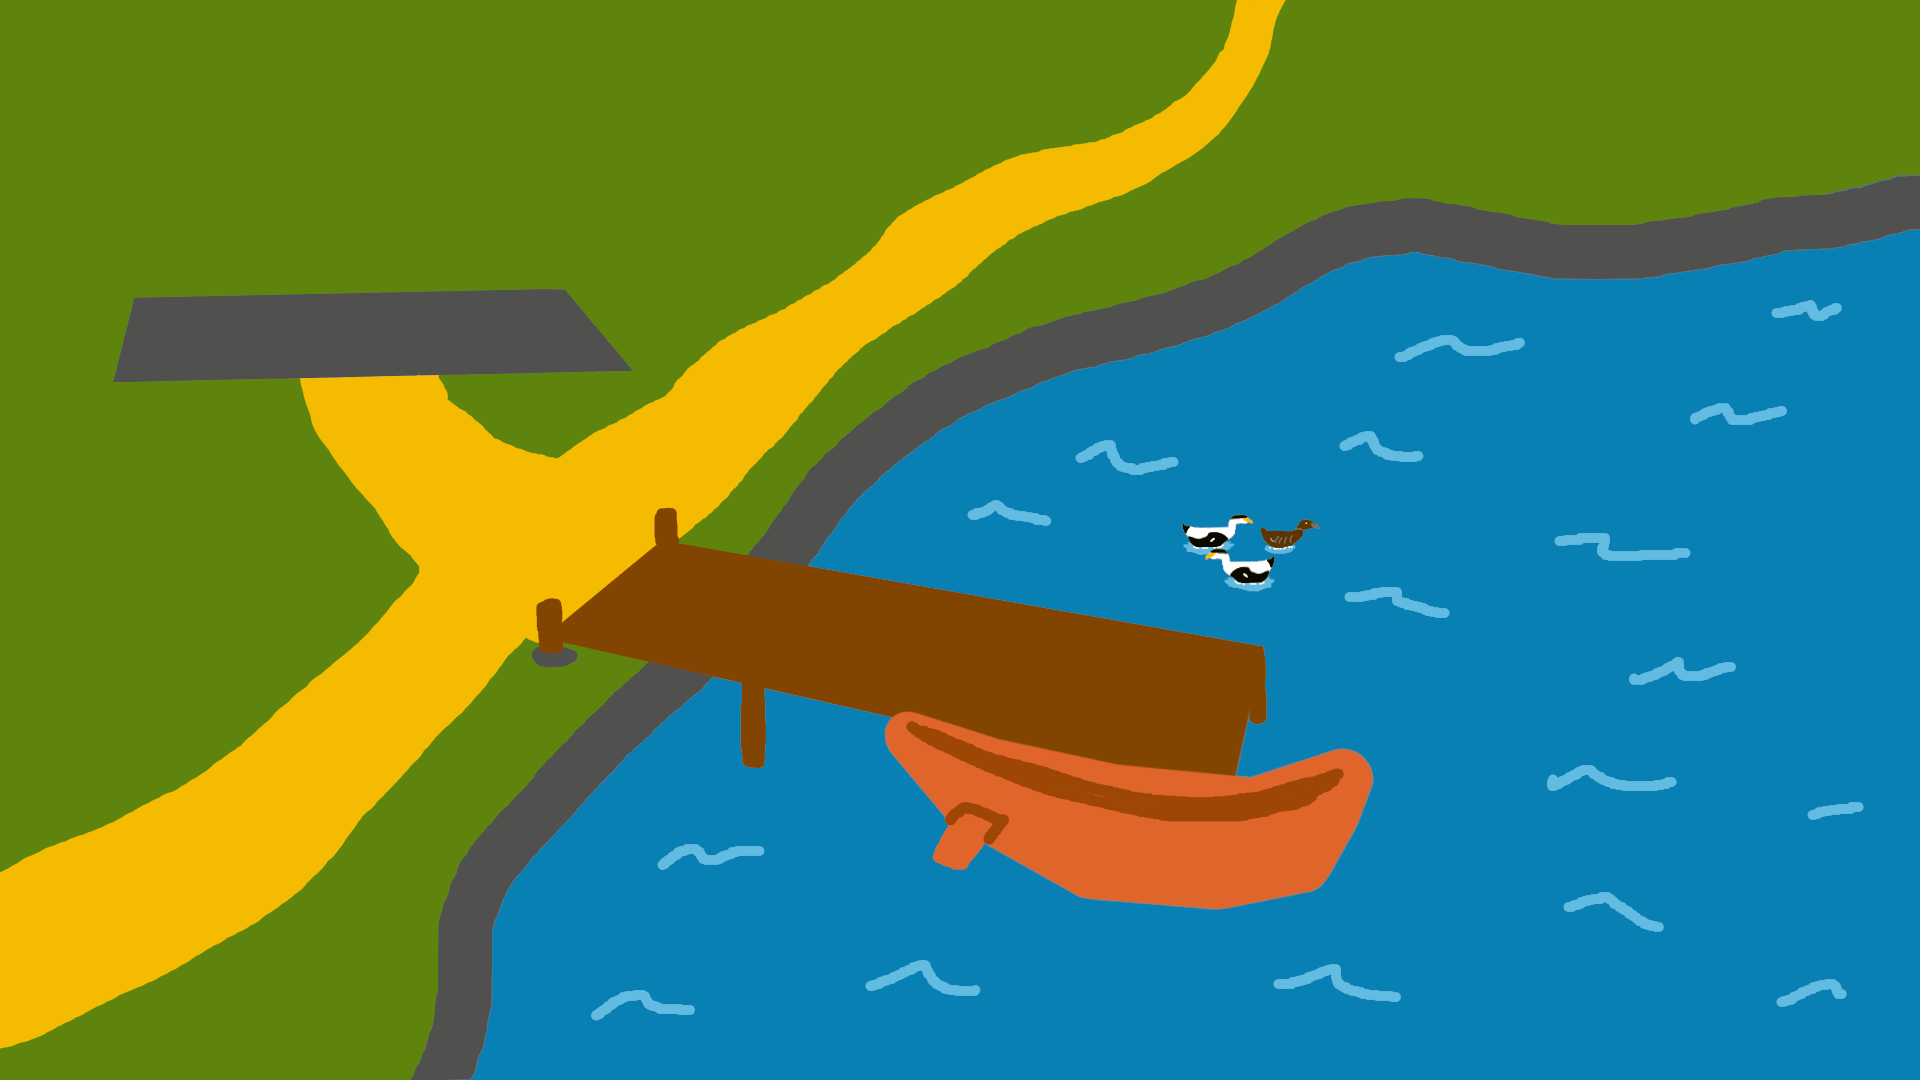
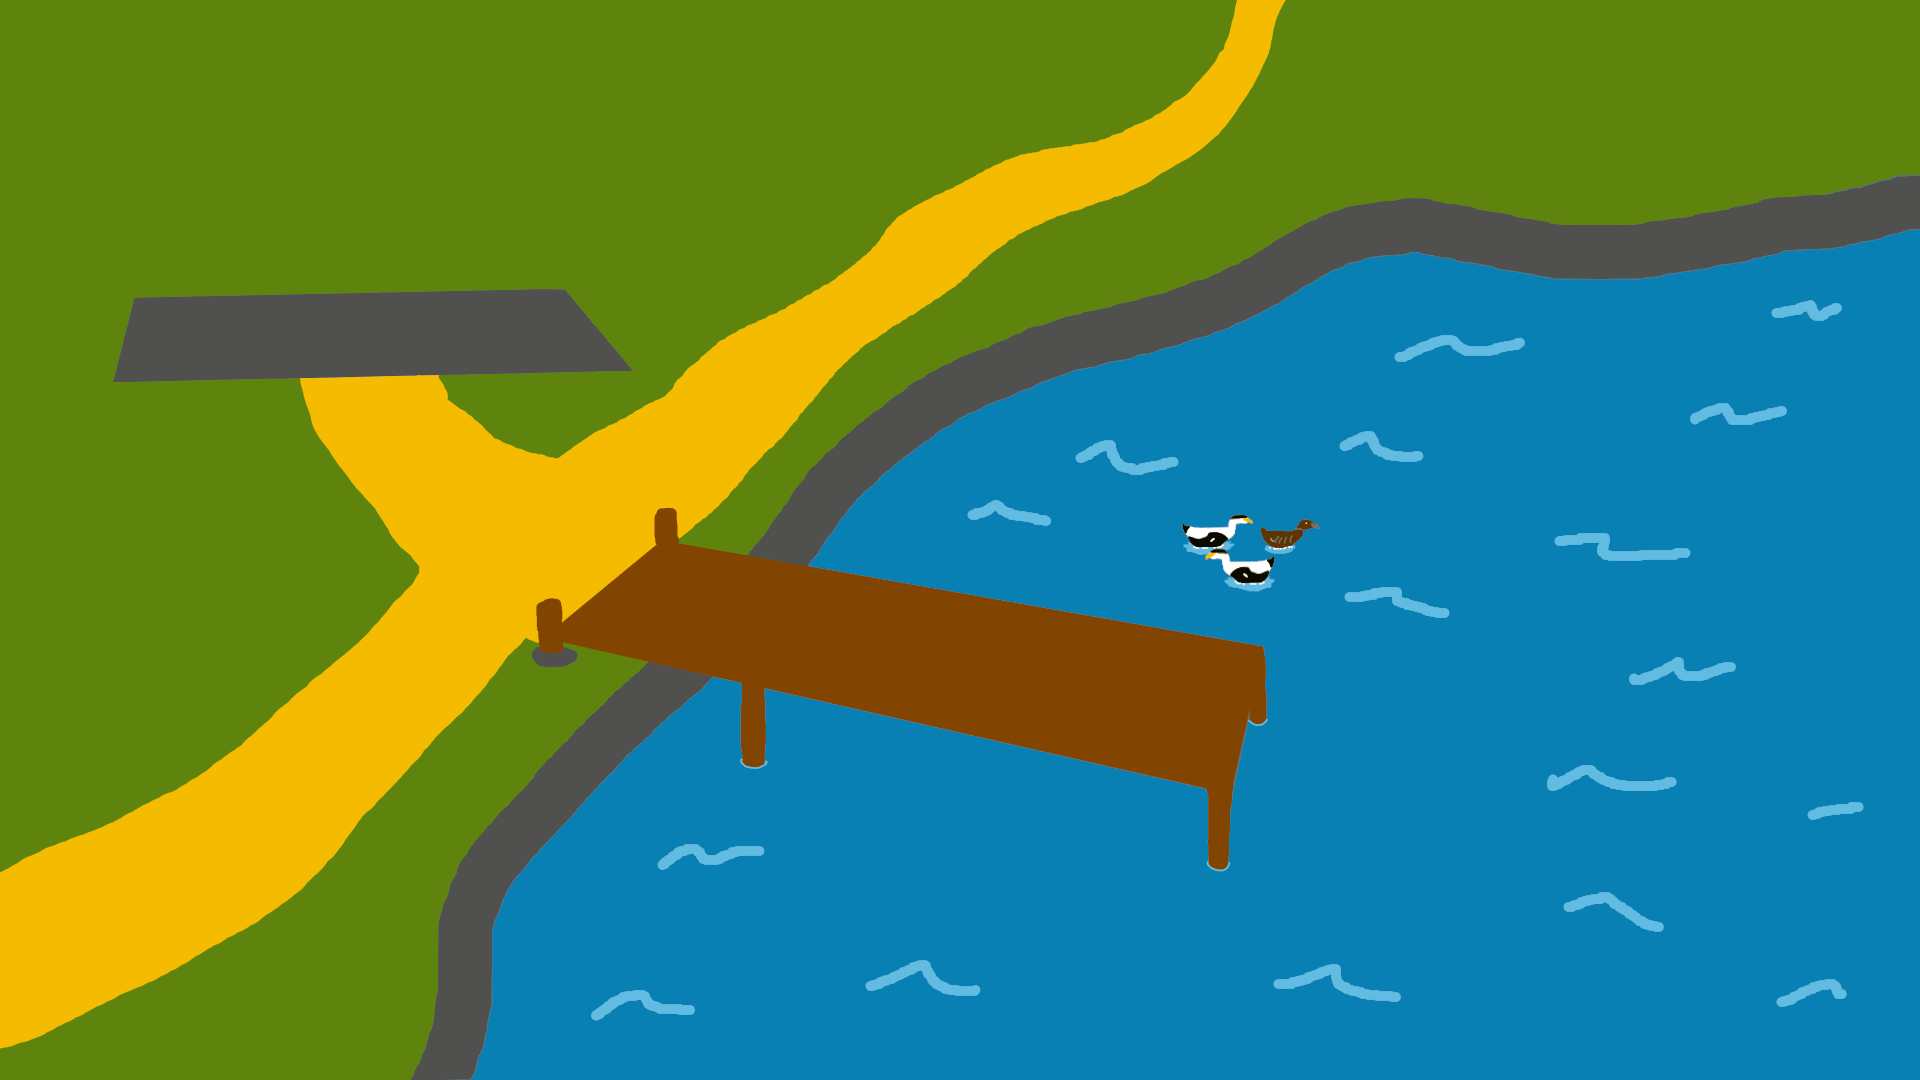
Assets

Changed region(s): [[0.4375, 0.6417, 0.7188, 0.8556]]

diff --git a/src/assets/assets.ts b/src/assets/assets.ts
@@ -1,53 +1,61 @@
-import { Image, SpriteSheet, Audio, tilemap, Tilemap } from "./util";
-import { image, sound, music, loadFont, spritesheet } from "./util";
+import { Image, SpriteSheet, Audio, tilemap, Tilemap } from './util';
+import { image, sound, music, loadFont, spritesheet } from './util';
 
 /* Images */
 const images: Image[] = [
-	// Backgrounds
-	image("backgrounds/background", "background"),
+  // Backgrounds
+  image('backgrounds/background', 'background'),
 
-	// Characters
-	// image("characters/player", "player"),
+  // Characters
+  // image("characters/player", "player"),
 
+  // Dockscene
+  image('backgrounds/dock_background', 'dock_background'),
+  image('shop/overworld_shop', 'overworld_shop'),
+  image('characters/hero-kobold', 'kobold'),
+  image('dock_boat', 'dock_boat'),
 
-	// Dockscene
-	image('backgrounds/dock_background', 'dock_background'),
-	image('shop/overworld_shop', 'overworld_shop'),
+  // Placeholder
+  image('characters/boat', 'boat'),
+  image('characters/boat_outside', 'boat_outside'),
+  image('characters/kobold', 'creature'),
 
-	// Items
-	image("items/coin", "coin"),
+  // Items
+  image('items/coin', 'coin'),
 
-	// UI
-	image("ui/hud", "hud"),
+  // UI
+  image('ui/hud', 'hud'),
 
-	// Titlescreen
-	image("titlescreen/sky", "title_sky"),
-	image("titlescreen/background", "title_background"),
-	image("titlescreen/foreground", "title_foreground"),
-	image("titlescreen/character", "title_character"),
+  // Titlescreen
+  image('titlescreen/sky', 'title_sky'),
+  image('titlescreen/background', 'title_background'),
+  image('titlescreen/foreground', 'title_foreground'),
+  image('titlescreen/character', 'title_character'),
 ];
 
 /* Spritesheets */
 const spritesheets: SpriteSheet[] = [
-	spritesheet("tilesets/overworld", "tileset_overworld", 128, 128),
-	spritesheet("player", "player", 128, 128),
-	spritesheet("ship", "ship", 128, 128),
+  spritesheet('tilesets/overworld', 'tileset_overworld', 128, 128),
+  spritesheet('player', 'player', 128, 128),
+  spritesheet('ship', 'ship', 128, 128),
 ];
 
 /* Tilemaps */
 
 export const tilemaps: Tilemap[] = [
-	tilemap("Overworld1.json", "tilemap_overworld1"),
+  tilemap('Overworld1.json', 'tilemap_overworld1'),
 ];
 
 /* Audios */
 const audios: Audio[] = [
-	music("title", "m_main_menu"),
-	music("first", "m_first"),
-	sound("tree/rustle", "t_rustle", 0.5),
+  music('title', 'm_main_menu'),
+  music('first', 'm_first'),
+  sound('tree/rustle', 't_rustle', 0.5),
+  sound('squish/squish1', 's_squish1', 1),
+  sound('squish/squish2', 's_squish2', 1),
 ];
 
 /* Fonts */
-await loadFont("DynaPuff-Medium", "Game Font");
+await loadFont('DynaPuff-Medium', 'Game Font');
 
 export { images, spritesheets, audios };
